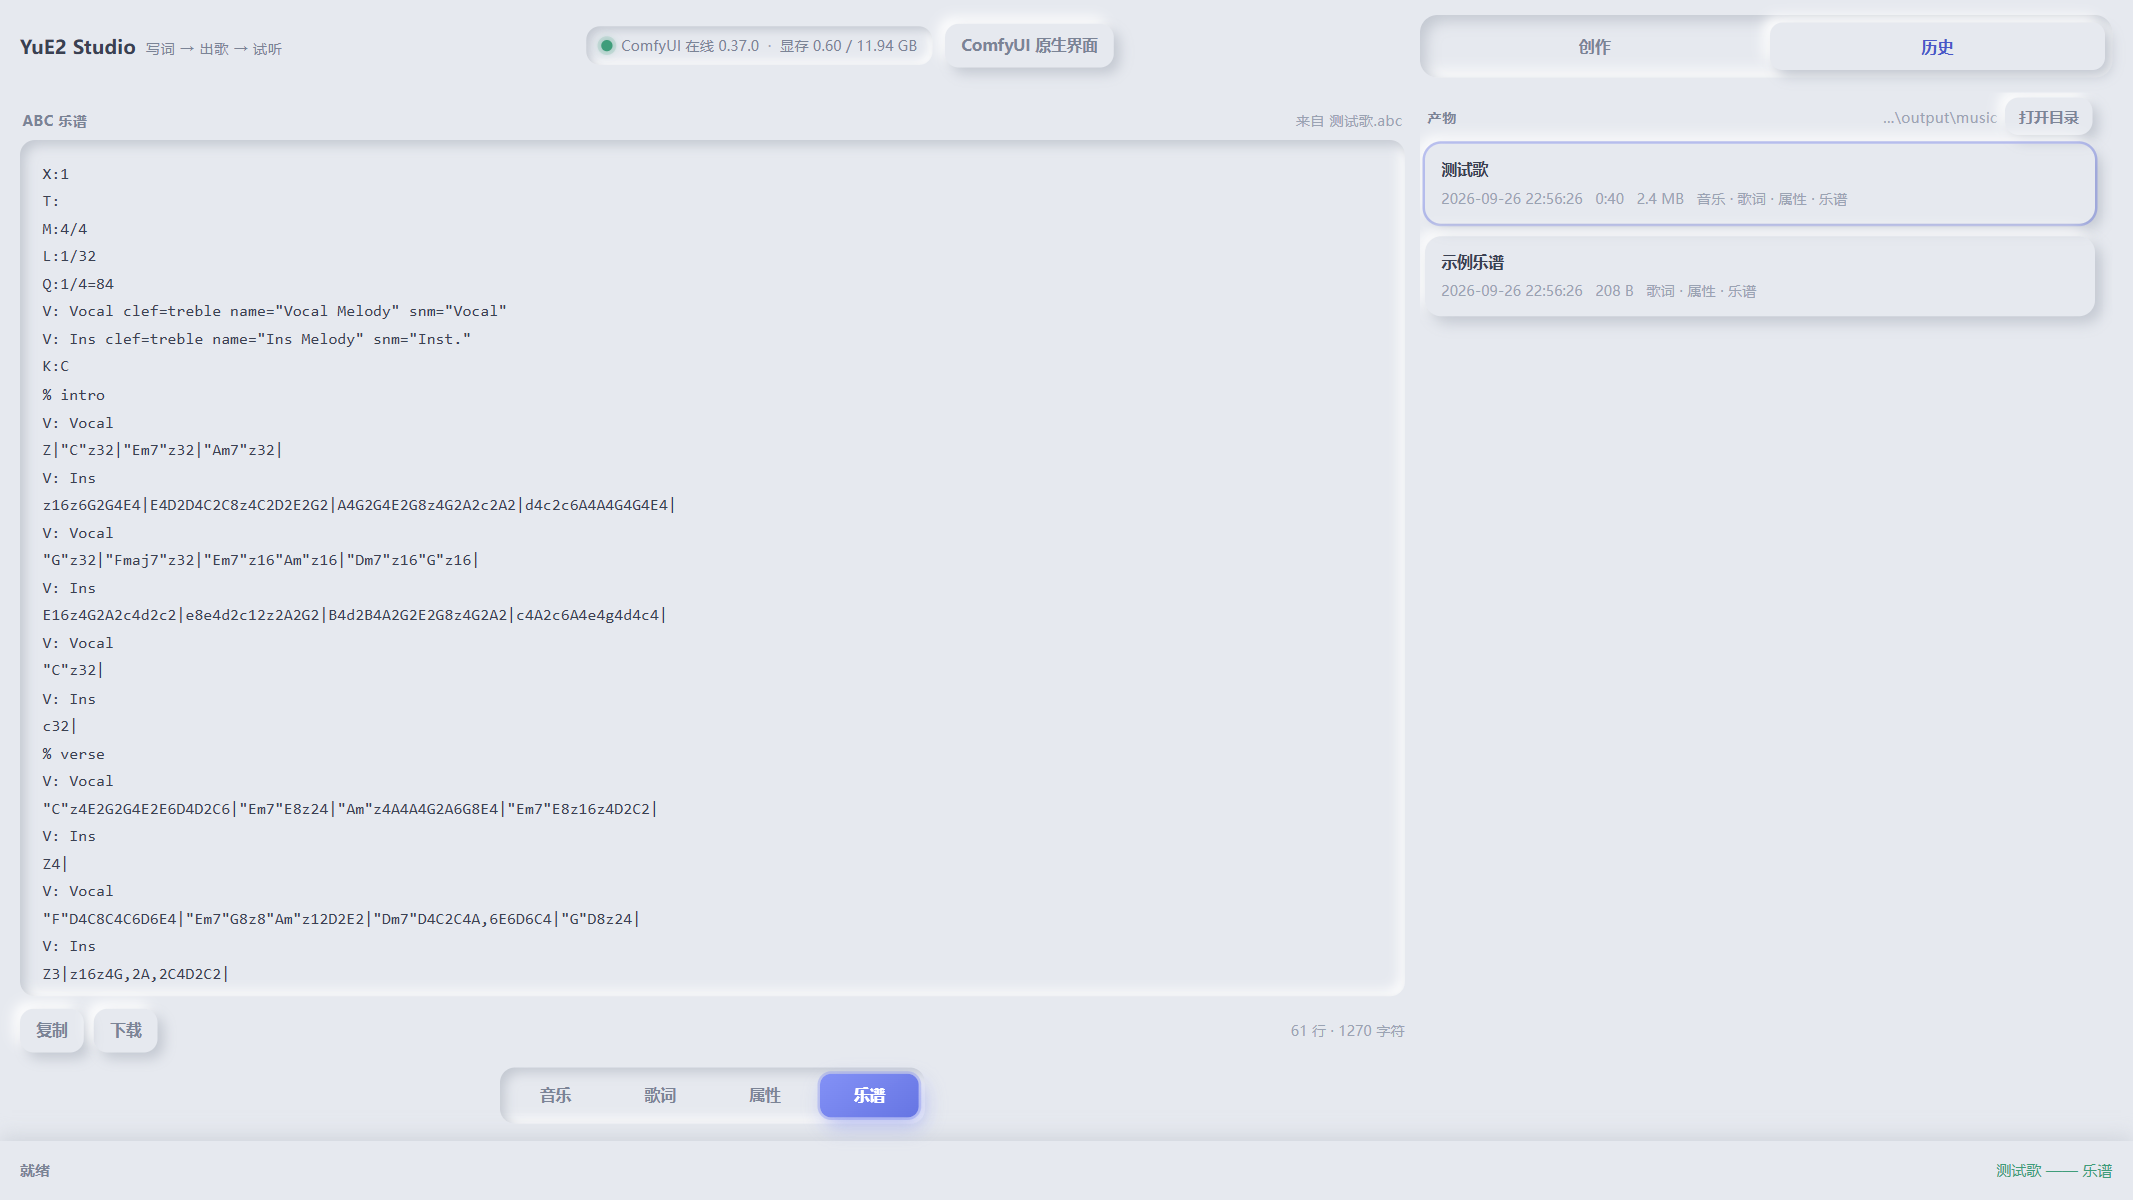
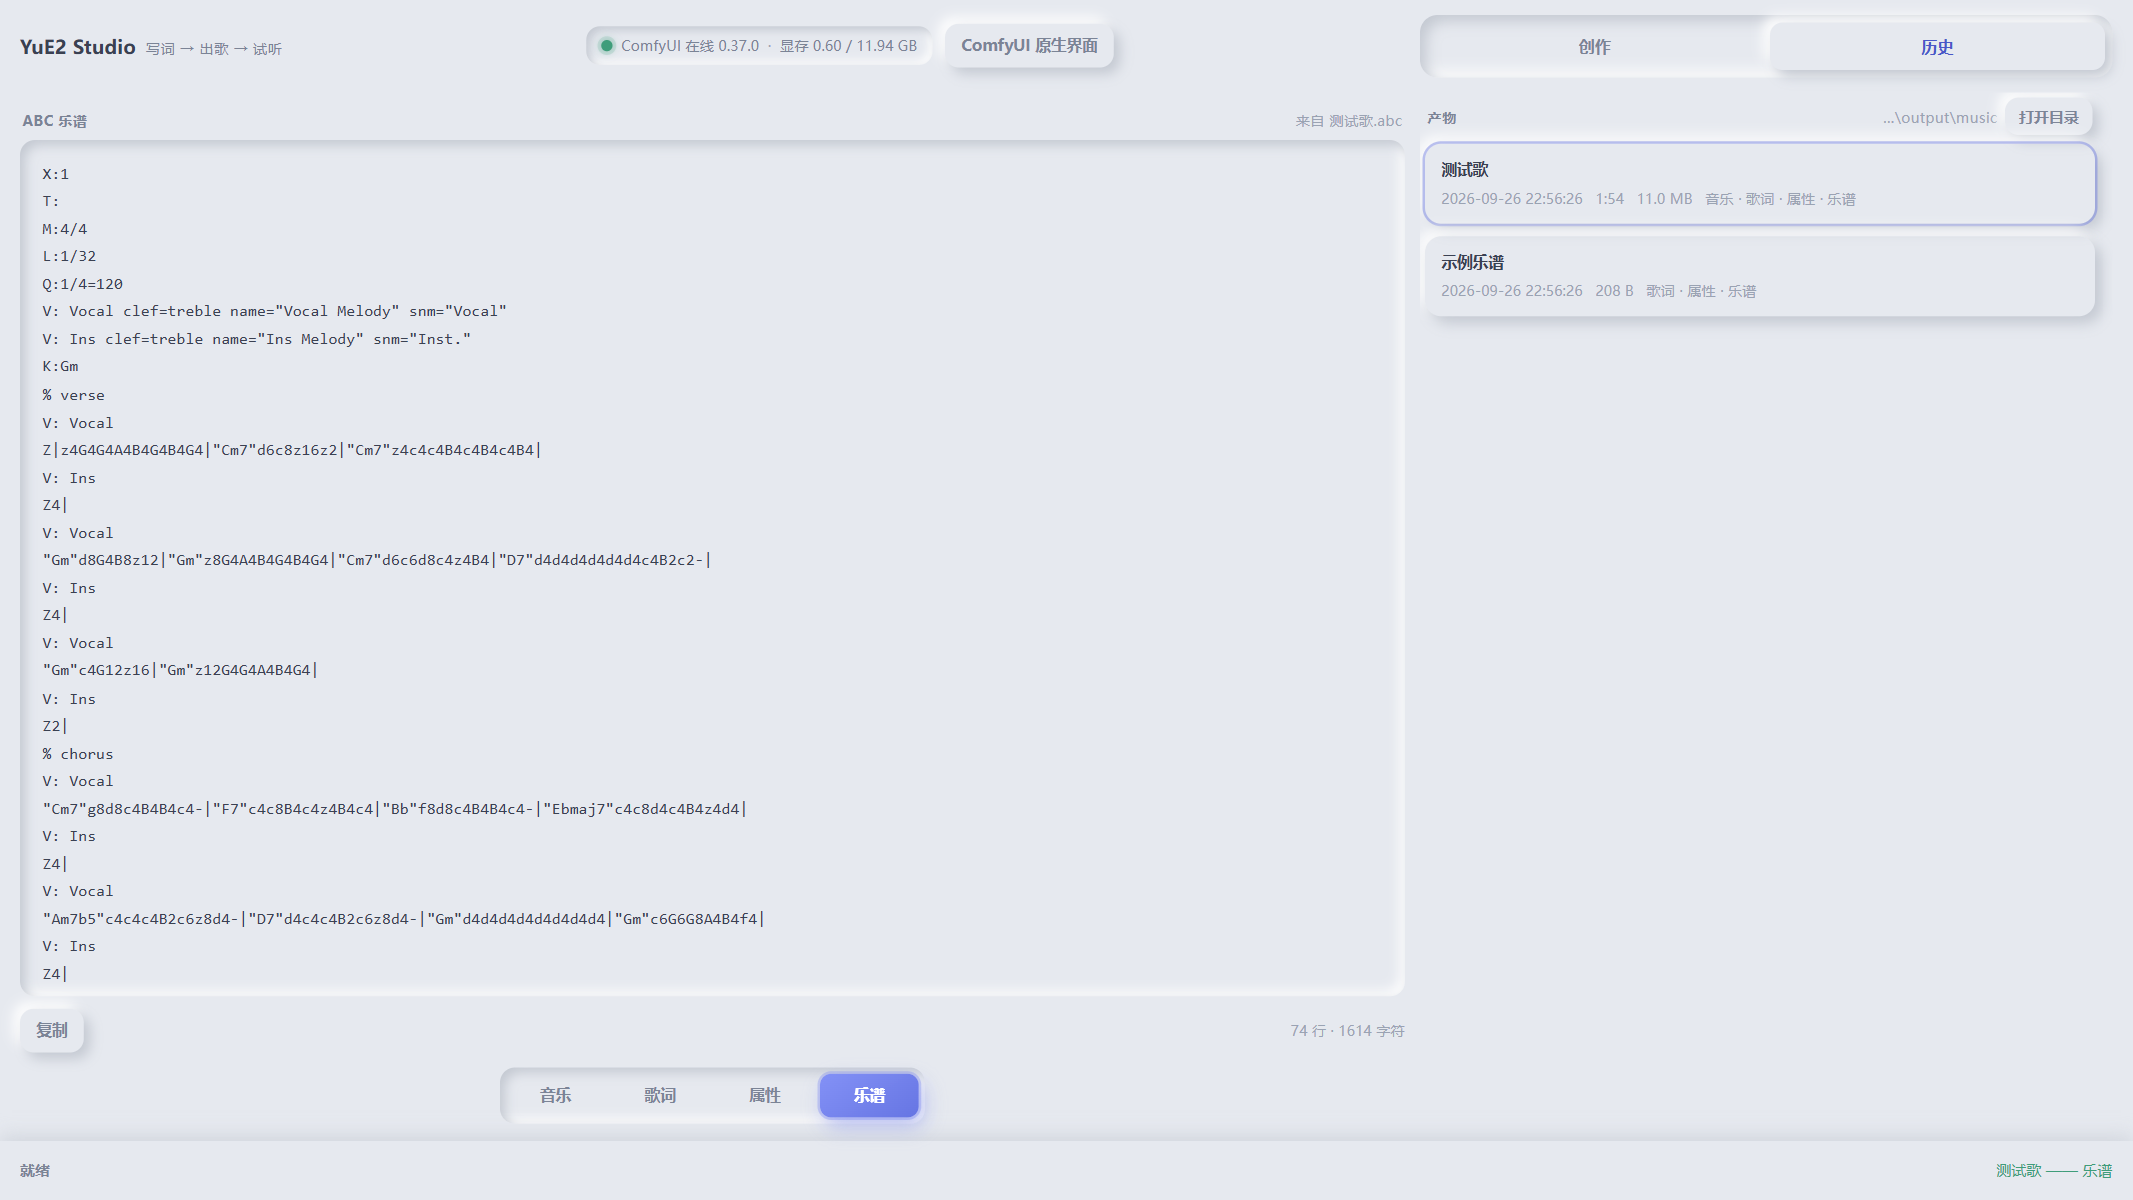
文档与截图跟上：乐谱页下载已删、悬停保白图标
- README 乐谱条改为「可看、可复制」并注明下载已删
- docs/MUSIC_NOTES：两个「下载」pill 的删除记在一处
- panel-score.png 重拍（按钮行只剩「复制」，像素探针核过乐谱页高亮）

diff --git a/docs/MUSIC_NOTES.md b/docs/MUSIC_NOTES.md
@@ -169,7 +169,8 @@
 → loadInfo → updateSwitch → paintCurCard`，当前页对新歌没内容时由 `updateSwitch` 回落到第一页有内容的。
 实测：歌词页接歌（霓虹里的虚拟歌姬 → 你哥）歌词页保留、`lyricsBox` 换成新歌的词；
 乐谱页接歌（你哥 → 写给你的情书）`abcName` 跟着换。
-**播放条的「下载」pill 已删**（2026-09-27 用户：文件本来就在本机产物目录里，下它没有意义）。
+**播放条的「下载」pill 已删**（2026-09-27 用户：文件本来就在本机产物目录里，下它没有意义）；
+**乐谱页的「下载」pill 同批删掉**（同一理由，`btnDlAbc` 的按钮/事件/禁用联动全清，「复制」保留）。
 `<audio>` 隐藏，播放/暂停/进度/时间全自绘；点卡片载入即播放（用户手势，浏览器允许），**生成完成不自动播**。
 
 ## 进度口径（不编百分比）
